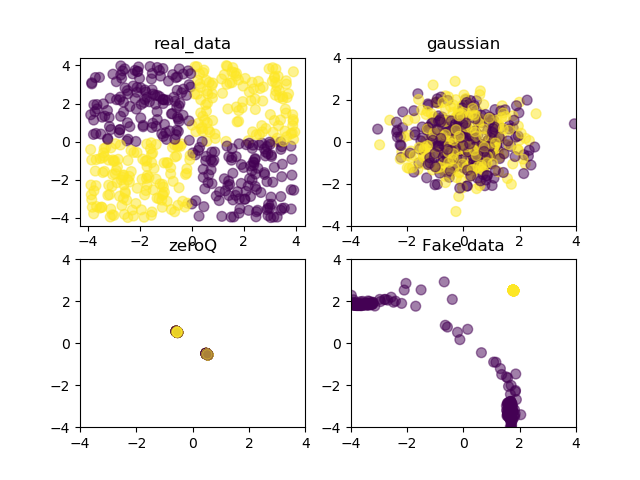
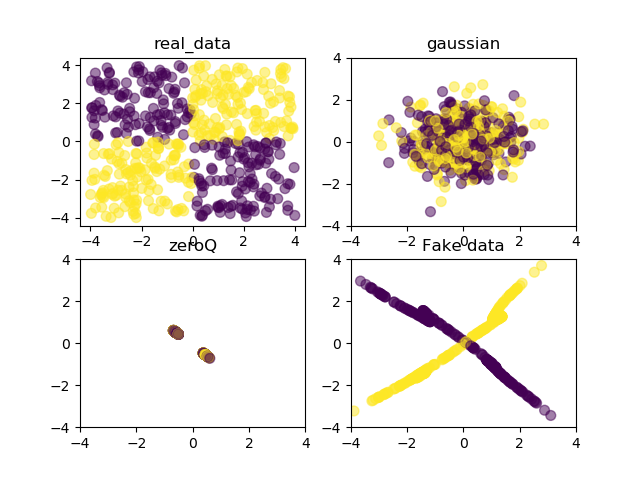
fix asy bug

diff --git a/train_script/train_GDFQ.py b/train_script/train_GDFQ.py
@@ -9,6 +9,7 @@ import torch.nn.functional as F
 from models.generator import CLSGenerator
 from train_script.utils import *
 from utils.val import validation
+from utils.quantize_model import freeze_bn
 
 def adjust_learning_rate(optimizer, epoch, base_lr):    
     lr = base_lr * (0.1 ** (epoch // 100))
@@ -28,8 +29,10 @@ def train_GDFQ(fp_model, q_model, val_dataloder, criterion,
 
 	# handle with gpu and batchs
 	n_gpu = torch.cuda.device_count()
+	# because author may use multi-gpu training
+	# and try to fit the origin fp model batch
 	# larger iteration per epoch follow the rule https://arxiv.org/abs/1706.02677v1
-	total_batch = n_gpu * batch_size	
+	total_batch = n_gpu * batch_size
 	default_iter = 200
 	base_batch_size = 256
 	# prevent out of bound
@@ -43,27 +46,23 @@ def train_GDFQ(fp_model, q_model, val_dataloder, criterion,
 	FloatTensor = torch.cuda.FloatTensor
 	LongTensor = torch.cuda.LongTensor
 
-
 	
 
 	generator = CLSGenerator(num_class, 100, img_size)
 	
 	fp_model.cuda()
-	# freeze fp model
+	# freeze fp model weight
 	for param in fp_model.parameters():
 		param.requires_grad = False
-	
-
-	fp_model = nn.DataParallel(fp_model).cuda()
-	generator = nn.DataParallel(generator).cuda()
-	q_model = nn.DataParallel(q_model).cuda()
-
-
 
 	generator.train()
 	# generator.cuda()
 	q_model.train()
 	# q_model.cuda()
+
+	fp_model = nn.DataParallel(fp_model).cuda()
+	generator = nn.DataParallel(generator).cuda()
+	q_model = nn.DataParallel(q_model).cuda()
 
 	g_optimizer = torch.optim.Adam(generator.parameters(), lr=g_lr)
 	q_optimizer = torch.optim.SGD(q_model.parameters(), lr=q_lr, momentum=0.9, weight_decay = 1e-4)	
@@ -174,6 +173,7 @@ def train_GDFQ(fp_model, q_model, val_dataloder, criterion,
 
 			print(" ==>Current Top1: {}, Top5: {}\n".format(q_top_1, q_top_5))
 
-
+		torch.save(q_model.state_dict(), "q_model.pkl")
+		torch.save(generator.state_dict(), "generator.pkl")
 
 	return q_model

diff --git a/utils/asy_quan.py b/utils/asy_quan.py
@@ -17,11 +17,11 @@ class RoundWithGradient(Function):
     def backward(ctx, g):
         return g 
 
-def AsyQuan(x, k, x_min, x_max):
+def AsyQuan(x, k, x_min, x_max, gradient = True):
 	
 	
 	# prevent 0 in denominator
-	scale = (2**(k-1)) / torch.clamp((x_max - x_min), min=1e-10)
+	scale = (2**k-1) / torch.clamp((x_max - x_min), min=1e-10)
 	
 	zero_point = scale * x_min
 	
@@ -32,9 +32,12 @@ def AsyQuan(x, k, x_min, x_max):
 	# quan
 	x = scale * x - zero_point
 	
-	# x = RoundWithGradient.apply(x)
-	x = x.round()
-	
+	if gradient:
+		x = RoundWithGradient.apply(x)
+
+	else:
+		x = x.round()
+		
 	limit = (2**(k-1))
 	# x = torch.where(x < (-limit), torch.tensor([-limit]).float().cuda(), x)
 	# x = torch.where(x > (limit-1), torch.tensor([limit-1]).float().cuda(), x)	
@@ -153,8 +156,8 @@ class AsyQActivation(nn.Module):
 			self.x_min = self.x_min * (1-self.momentum) + x_min * self.momentum
 			self.x_max = self.x_max * (1-self.momentum) + x_max * self.momentum		
 
-		
-		x = AsyQuan(x, self.a_bit, self.x_min, self.x_max)	
+		# it seems that using gradient in activation will lead to nan loss of q model
+		x = AsyQuan(x, self.a_bit, self.x_min, self.x_max, gradient=False)	
 
 
 		return x

diff --git a/utils/val.py b/utils/val.py
@@ -24,8 +24,8 @@ def accuracy(output, target, topk=(1,)):
 
 def validation(val_loader, model, criterion):
 
-    print("Evaluation Results ........")
-    
+
+
 	model.cuda()
 	model.eval()
 	top1 = AverageMeter('Acc@1', ':6.2f')

diff --git a/README.md b/README.md
@@ -1,5 +1,6 @@
 # GDFQ
-unofficial implementation of Generative Low-bitwidth Data Free Quantization
+unofficial implementation of Generative Low-bitwidth Data Free Quantization  
+It is for personal study, any advice is welcome.  
 
 
 ****  
@@ -12,39 +13,40 @@ The Origin Paper : <https://arxiv.org/pdf/2003.03603.pdf>
 ## Toy Result
 
 <img src=toy.png width=100%>  
-Real Data ==> train FP model.  
-
-Gaussian Data ==> Generated gaussian to train zeroQ/generator and test output.  
-
-ZeroQ ==> Data distribution generated from zeroQ method.  
-
-Fake data ==> Data distribution generated from the generator.  
-
-
 
 It seems that the Generator can generate data with classification boundary,
-and zeroQ will prefer to generate data that will not pay attention to the data distribution.
+and zeroQ will prefer to generate data that will not pay attention to the data distribution.  
 
-But I can not reproduce the beautiful generated data in the paper. :sweat_smile::sweat_smile::sweat_smile:
+But I can not reproduce the beautiful generated data in the paper. :sweat_smile::sweat_smile::sweat_smile:  
 
 
 ## Training
 
 * The floating model using torchvision, so the architecture must fit the torchvisoin model name.  
-* Batch size, set the default batchsize as 256, and it will follow the relationship rules of learning rate, iteration, batchsize.  
+* Batch size set the default batch size as 256, and it will follow the related rules of the learning rate, iteration, batch size.  
+Accurate, Large Minibatch SGD: Training ImageNet in 1 Hour: <https://arxiv.org/abs/1706.02677v1>   
 
-
-
-```python
+Default is 4 bit  
+Ex: training with resnet  
+```
 
 python train.py -a resnet18 --batch_size 64
 ```
+
+Training with vgg16_bn with 8 bit activation, 8bit weight, 8 bit bias  
+```
+python train.py -a vgg16_bn -qa 8 -qw 8 -qb 8
+```
+
+### Issue
+1. Question about the fixed batch norm of the Qmodel. (will not affect the training? or it needs to quantize the batch norm first?)  
+2. The toy experiment can not generate the beautiful output, maybe something wrong. (Any advice or PR is welcome)  
   
 ### Todo
 - [ ] add zeroQ traning.  
-- [ ] Check the effect of the BNS and kl(if have time).  
-
-
+- [ ] Check the effect of the BNS and kl(if have time).   
 
 ### Note
-This had not test the performace yet.  
+This had not tested the performance yet.   
+So it may have some bug for now.  
+All the results are base on fake quantization, not the true low bit inference.  
